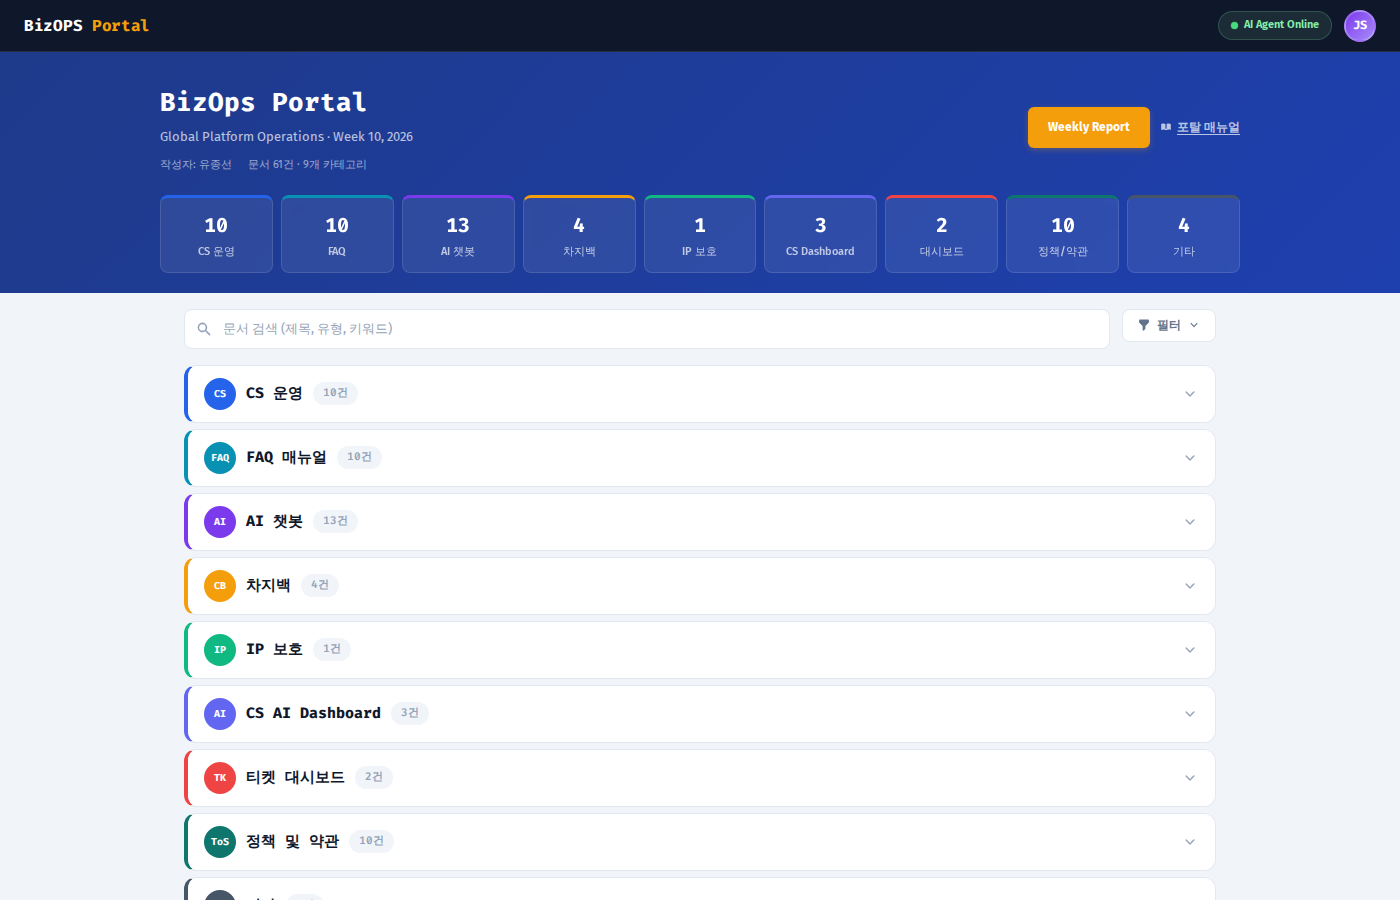
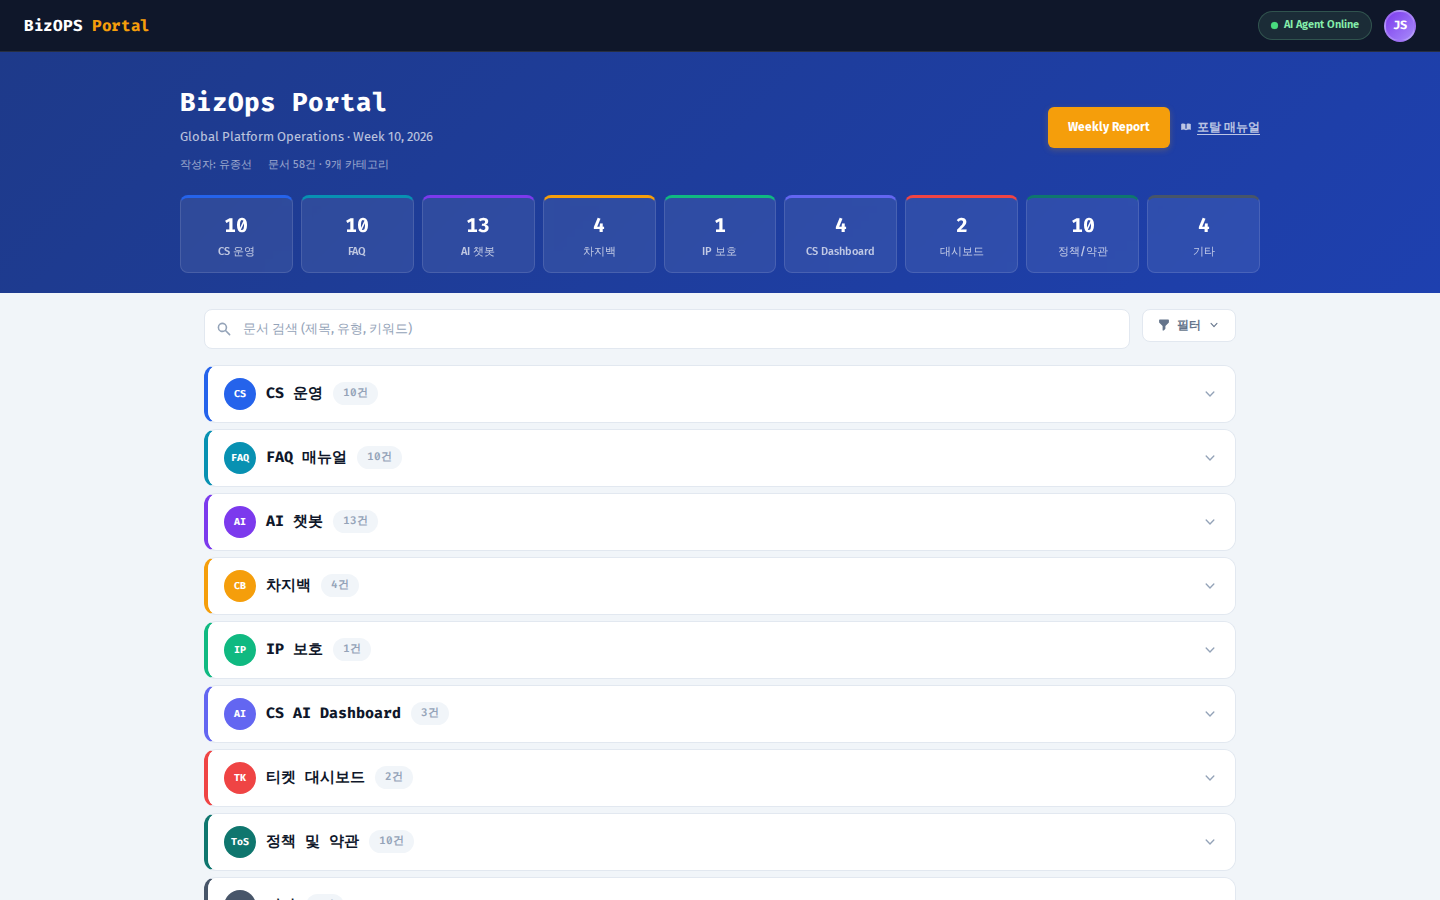
update: 스크린샷 전체 교체 — 🤖 Draft Ready, L3 Settings, 58건 포탈
- dashboard_overview: 🤖 배지 표시, 최신 UI
- dashboard_detail: AI Draft Ready + Approve/Edit/Reject
- dashboard_settings: L3 4섹션 (85%/90%/60초) — 신규
- bizops_portal: 58건 반영
- dashboard_profile → dashboard_settings 교체

diff --git a/index.html b/index.html
@@ -130,8 +130,8 @@
     <div class="screenshot-label"><span class="i18n" data-en="Live Dashboard Screenshots" data-kr="실제 대시보드 스크린샷">Live Dashboard Screenshots</span></div>
     <div class="screenshot-grid">
       <div class="screenshot-item" onclick="openLightbox(this)"><img src="assets/screenshots/dashboard_overview.png" alt="Dashboard Overview" loading="lazy"><div class="screenshot-caption"><span class="i18n" data-en="Dashboard — Ticket List + KPI Cards + Charts" data-kr="대시보드 — 티켓 목록 + KPI 카드 + 차트">Dashboard — Ticket List + KPI Cards + Charts</span></div></div>
-      <div class="screenshot-item" onclick="openLightbox(this)"><img src="assets/screenshots/dashboard_detail.png" alt="Ticket Detail + AI Draft" loading="lazy"><div class="screenshot-caption"><span class="i18n" data-en="Ticket Detail — AI Draft + Quality Score + Actions" data-kr="티켓 상세 — AI 초안 + 품질 점수 + 액션">Ticket Detail — AI Draft + Quality Score + Actions</span></div></div>
-      <div class="screenshot-item" onclick="openLightbox(this)"><img src="assets/screenshots/dashboard_profile.png" alt="Customer Profile Modal" loading="lazy"><div class="screenshot-caption"><span class="i18n" data-en="Customer Profile — User Info + Zendesk Link" data-kr="고객 프로필 — 사용자 정보 + Zendesk 링크">Customer Profile — User Info + Zendesk Link</span></div></div>
+      <div class="screenshot-item" onclick="openLightbox(this)"><img src="assets/screenshots/dashboard_detail.png" alt="Ticket Detail + AI Draft" loading="lazy"><div class="screenshot-caption"><span class="i18n" data-en="🤖 AI Draft Ready — Approve / Edit / Reject" data-kr="🤖 AI Draft Ready — 승인 / 편집 / 거절">🤖 AI Draft Ready — Approve / Edit / Reject</span></div></div>
+      <div class="screenshot-item" onclick="openLightbox(this)"><img src="assets/screenshots/dashboard_settings.png" alt="L3 Auto-Response Settings" loading="lazy"><div class="screenshot-caption"><span class="i18n" data-en="L3 Settings — Master Control + Category & Market" data-kr="L3 설정 — 마스터 컨트롤 + 카테고리 & 마켓">L3 Settings — Master Control + Category & Market</span></div></div>
     </div>
   </div>
 </div>
@@ -255,7 +255,7 @@
   <div class="screenshot-gallery">
     <div class="screenshot-label"><span class="i18n" data-en="Portal Screenshot" data-kr="포탈 스크린샷">Portal Screenshot</span></div>
     <div class="screenshot-grid">
-      <div class="screenshot-item" onclick="openLightbox(this)"><img src="assets/screenshots/bizops_portal.png" alt="BizOPS Portal" loading="lazy"><div class="screenshot-caption"><span class="i18n" data-en="BizOPS Artifacts Portal — 58 docs, 9 categories" data-kr="BizOPS 산출물 포탈 — 58개 문서, 9개 카테고리">BizOPS Artifacts Portal — 58 docs, 9 categories</span></div></div>
+      <div class="screenshot-item" onclick="openLightbox(this)"><img src="assets/screenshots/bizops_portal.png" alt="BizOPS Portal" loading="lazy"><div class="screenshot-caption"><span class="i18n" data-en="BizOPS Artifacts Portal — 58 docs, 9 categories" data-kr="BizOPS 산출물 포탈 — 58건, 9개 카테고리">BizOPS Artifacts Portal — 58 docs, 9 categories</span></div></div>
     </div>
   </div>
 </div>
